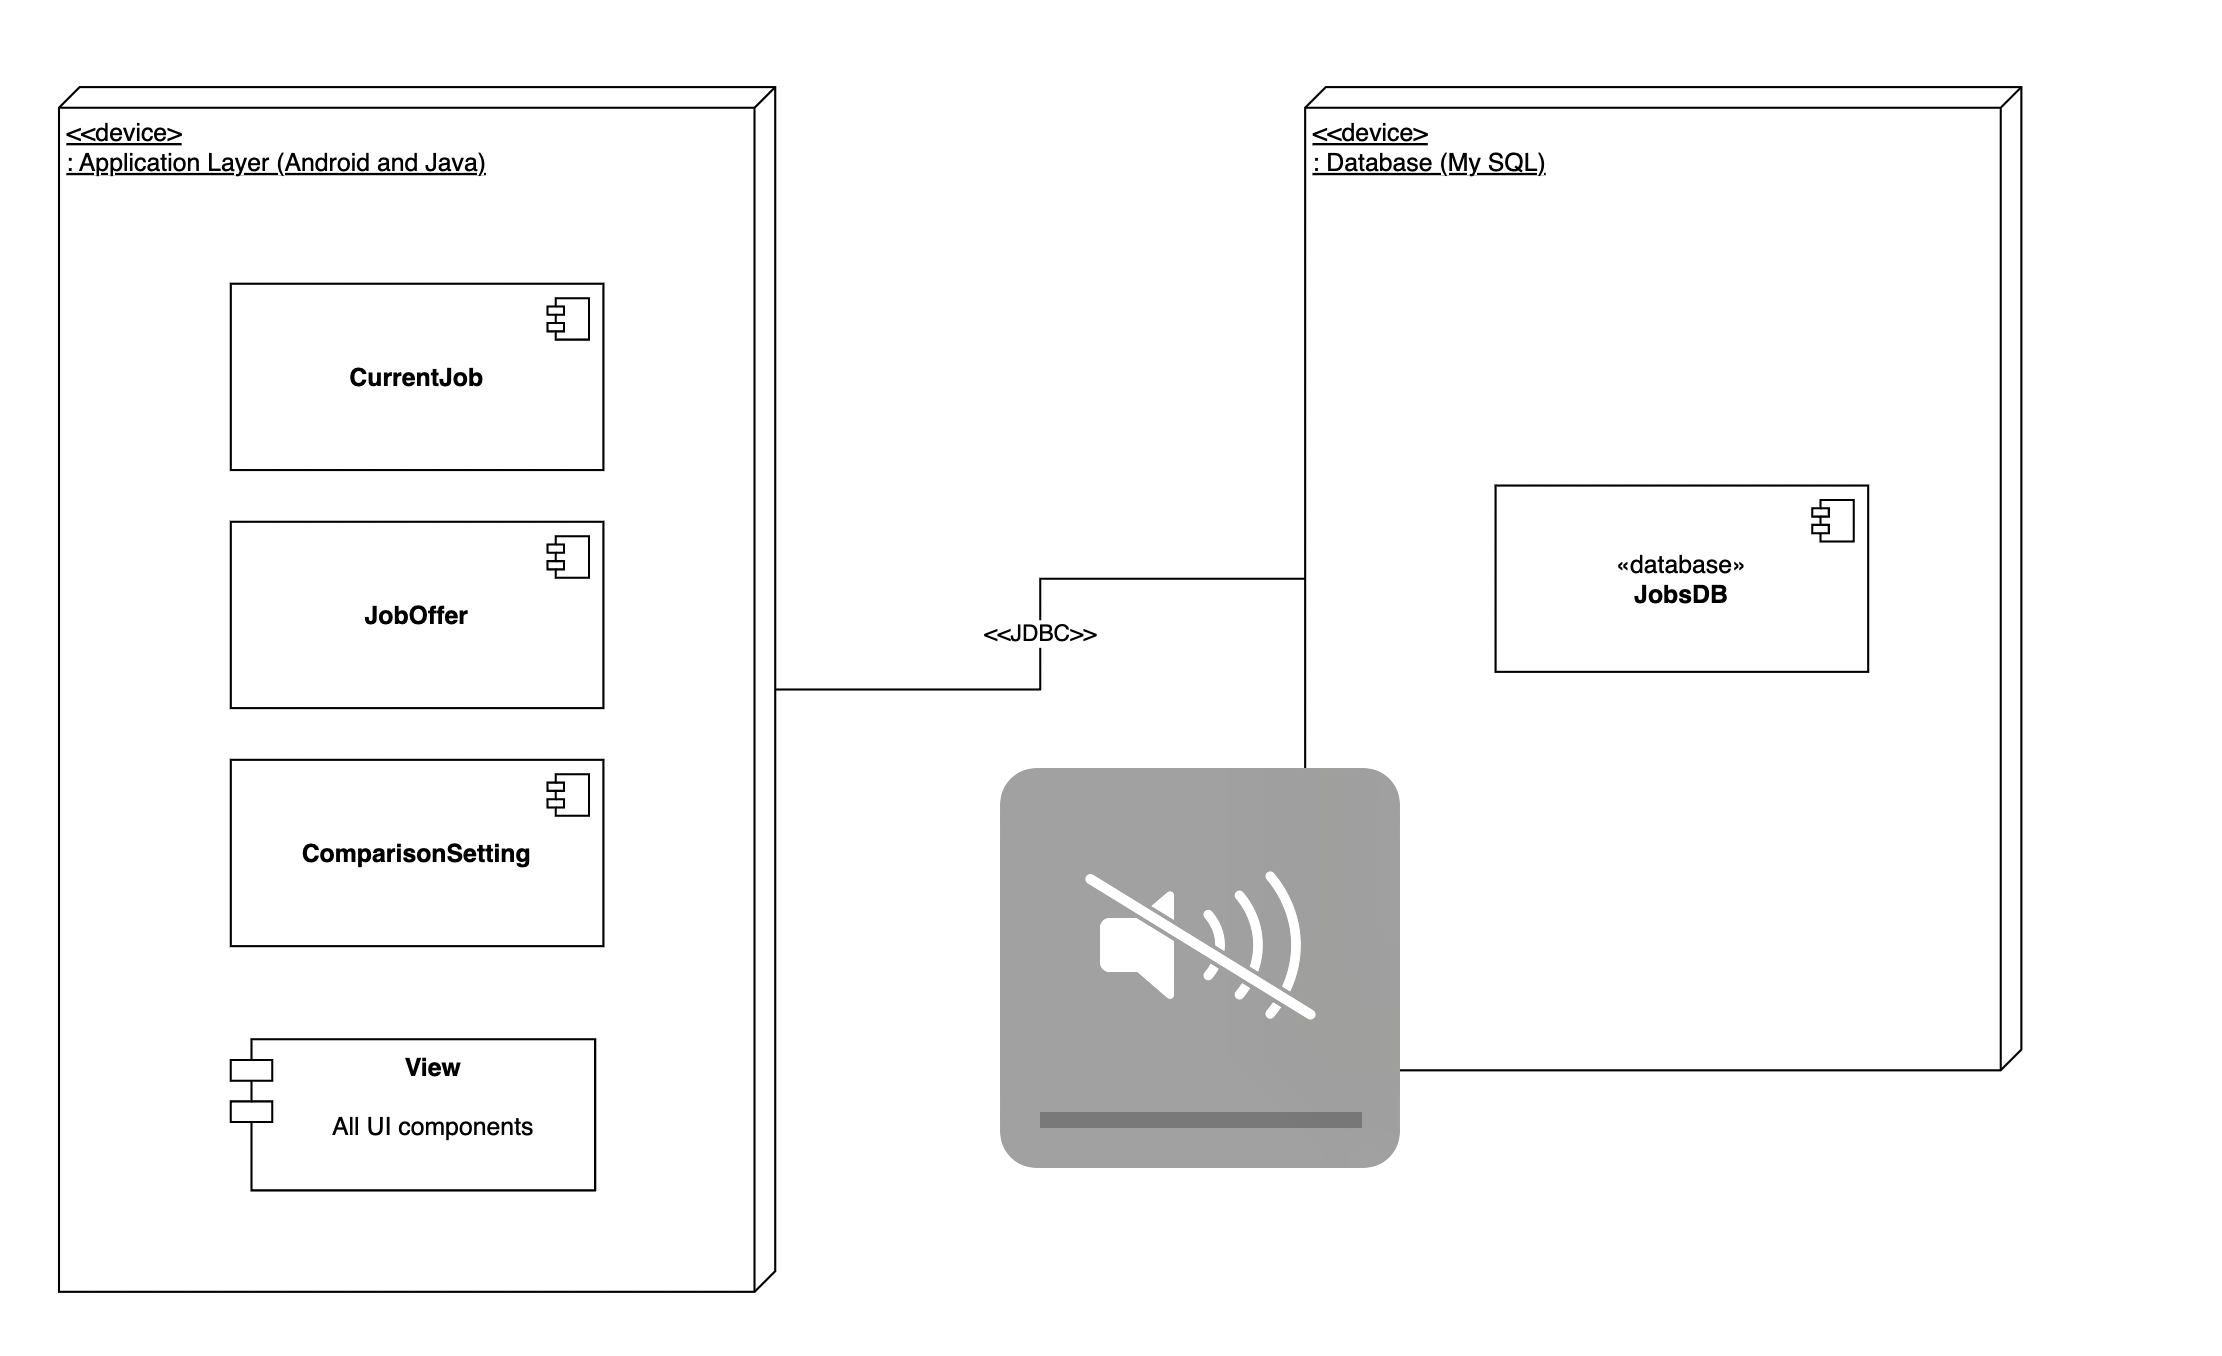
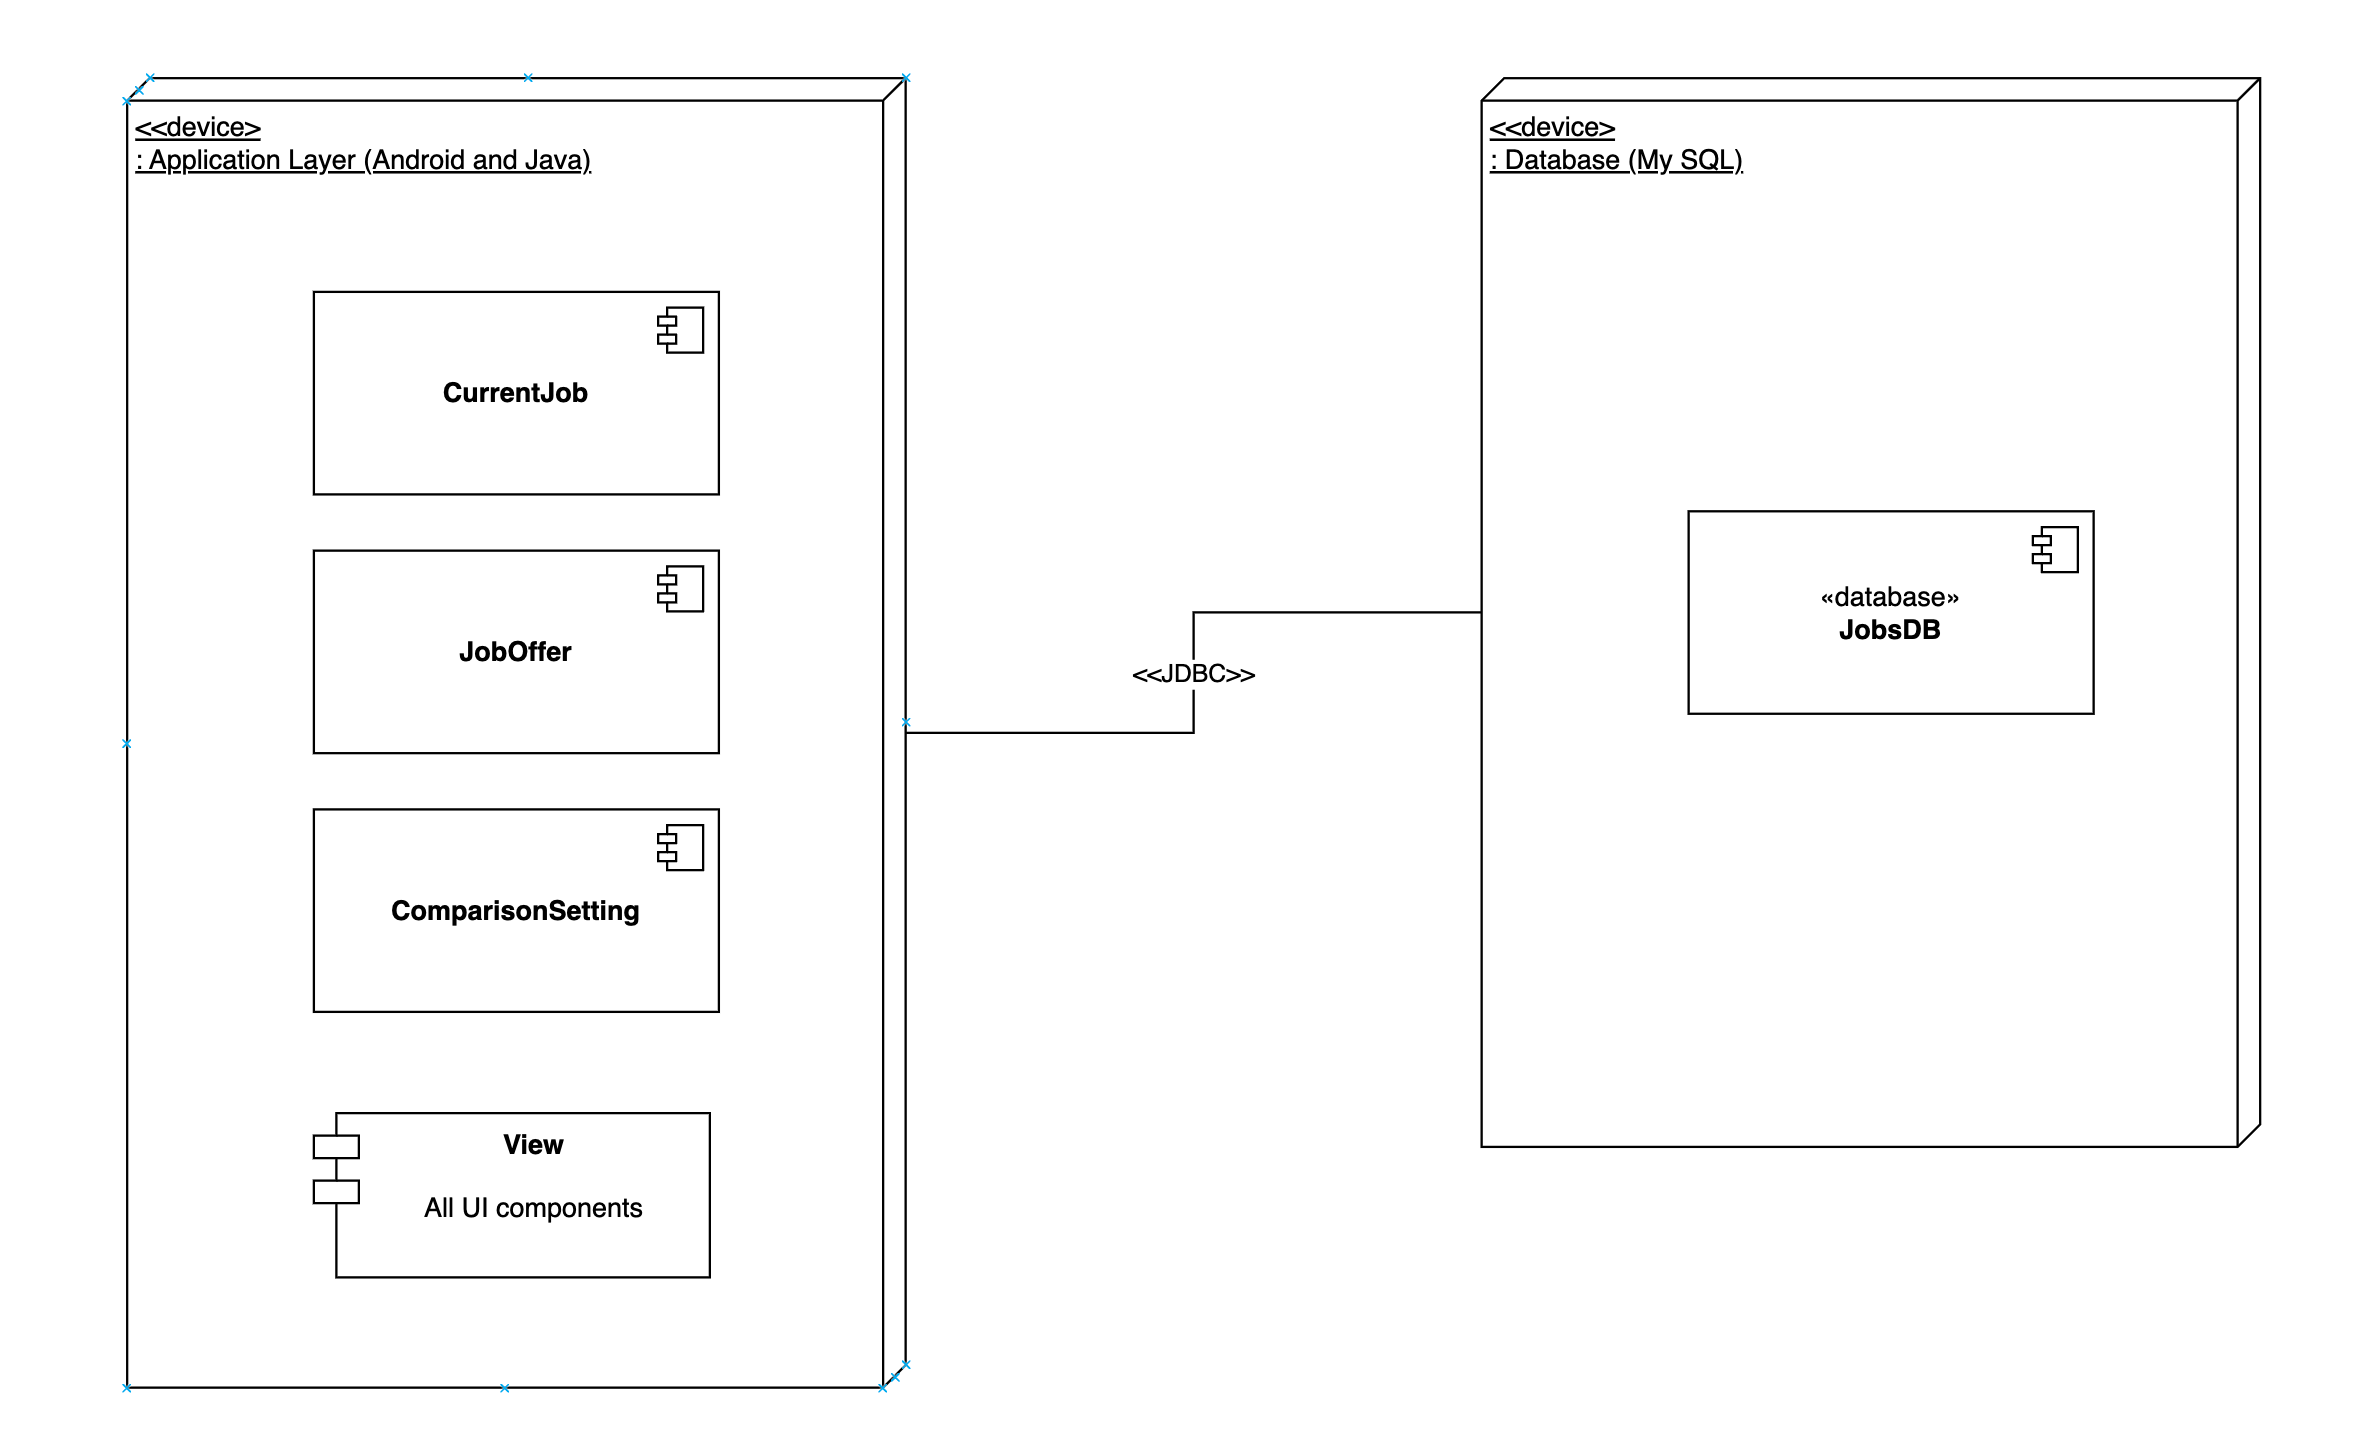
updated embedded diagrams to latest

diff --git a/GroupProject/Docs/images/DesignDocument.md b/GroupProject/Docs/images/DesignDocument.md
@@ -1,0 +1,77 @@
+# Design Document
+
+*This is the template for your design document. The parts in italics are concise explanations of what should go in the corresponding sections and should not appear in the final document.*
+
+**Author**: Team 047
+
+## 1 Design Considerations
+
+*The subsections below describe the issues that need to be addressed or resolved prior to or while completing the design, as well as issues that may influence the design process.*
+
+### 1.1 Assumptions
+
+*Describe any assumption, background, or dependencies of the software, its use, the operational environment, or significant project issues.*
+
+* The **primary user** is George P. Burdell, an alumnus of Georgia Tech, who is looking for a new job in the US after graduation. He wants to compare job offers and benefits in different locations 
+* The app is for a **single-user** only with no support for account management or multi-user job comparison
+* It is possible that the user has a **current job** but not mandatory
+* We’re assuming the **job locations** are in the US only so we only need the user to input a US State and City to calculate the Cost of Living index
+* The user will know the correct **Cost of Living index** of the US city they’re entering in a job offer. The app will calculate the adjusted salary and bonus using the formula AYS = (YS * 100) / INDEX, where AYS is adjusted yearly salary and YS is the yearly salary
+* The user will be using an **Android device of API level 33 or higher** (Android 13 Tiramisu)
+* The app does need networking and **internet connectivity** as all user input jobs data is stored locally
+* The app will use an SQL based **database** for data persistence or state, eg. job offers data should be preserved when app is closed and re-opened
+
+
+### 1.2 Constraints
+
+*Describe any constraints on the system that have a significant impact on the design of the system.*
+
+* Minimum SDK: Android API level 33
+* Programming language: Java 17
+* Build configuration: Groovy DSL (build.gradle)
+* The user interface must be intuitive and responsive. Our design will be limited to default Android widgets for buttons, input text elements, etc
+* Our choice of the database SQL-based vs NoSQL like MongoDB will affect how the data is stored and queried in the app
+
+
+### 1.3 System Environment
+
+*Describe the hardware and software that the system must operate in and interact with.*
+
+**Hardware:**
+* Android devices (smartphones, tablets) with min Android 13 Tiramisu (API level 33)
+* Enough storage available for installing the app and storing the job offers data locally input by the users
+
+**Software:**
+* For development we’re using the Android Studio as the IDE
+* We’ll be importing the relevant Android and Java libraries for UI, validation and error handling, database management
+
+## 2 Architectural Design
+
+*The architecture provides the high-level design view of a system and provides a basis for more detailed design work. These subsections describe the top-level components of the system you are building and their relationships.*
+
+### 2.1 Component Diagram
+
+*This section should provide and describe a diagram that shows the various components and how they are connected. This diagram shows the logical/functional components of the system, where each component represents a cluster of related functionality. In the case of simple systems, where there is a single component, this diagram may be unnecessary; in these cases, simply state so and concisely state why.*
+![image](./images/component_diagram.png)
+
+### 2.2 Deployment Diagram
+
+*This section should describe how the different components will be deployed on actual hardware devices. Similar to the previous subsection, this diagram may be unnecessary for simple systems; in these cases, simply state so and concisely state why.*
+![image](./images/deployment_diagram.png)
+
+## 3 Low-Level Design
+
+*Describe the low-level design for each of the system components identified in the previous section. For each component, you should provide details in the following UML diagrams to show its internal structure.*
+
+### 3.1 Class Diagram
+
+*In the case of an OO design, the internal structure of a software component would typically be expressed as a UML class diagram that represents the static class structure for the component and their relationships.*
+![image](./images/class_diagram.png)
+
+### 3.2 Other Diagrams
+
+*<u>Optionally</u>, you can decide to describe some dynamic aspects of your system using one or more behavioral diagrams, such as sequence and state diagrams.*
+
+## 4 User Interface Design
+*For GUI-based systems, this section should provide the specific format/layout of the user interface of the system (e.g., in the form of graphical mockups).*
+
